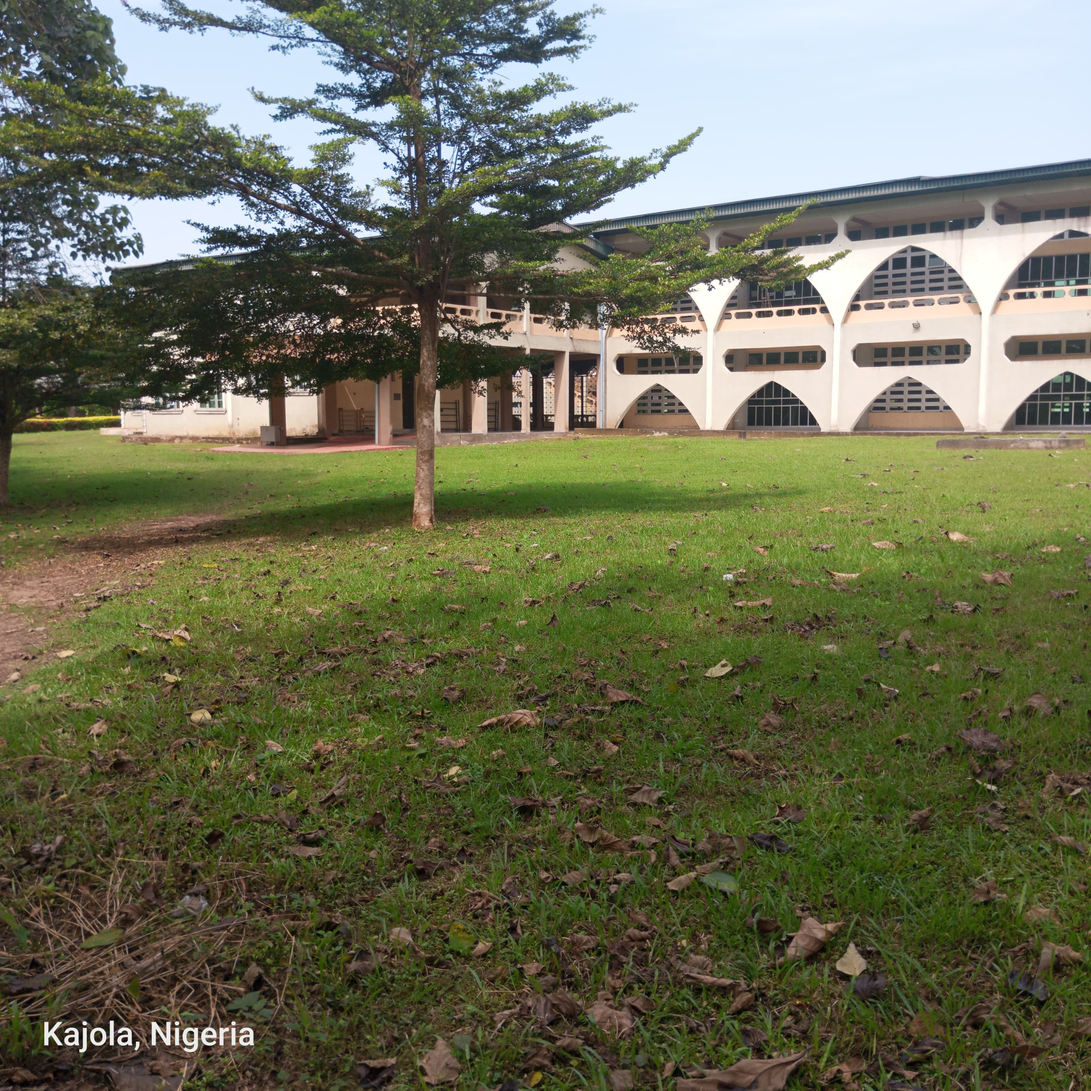
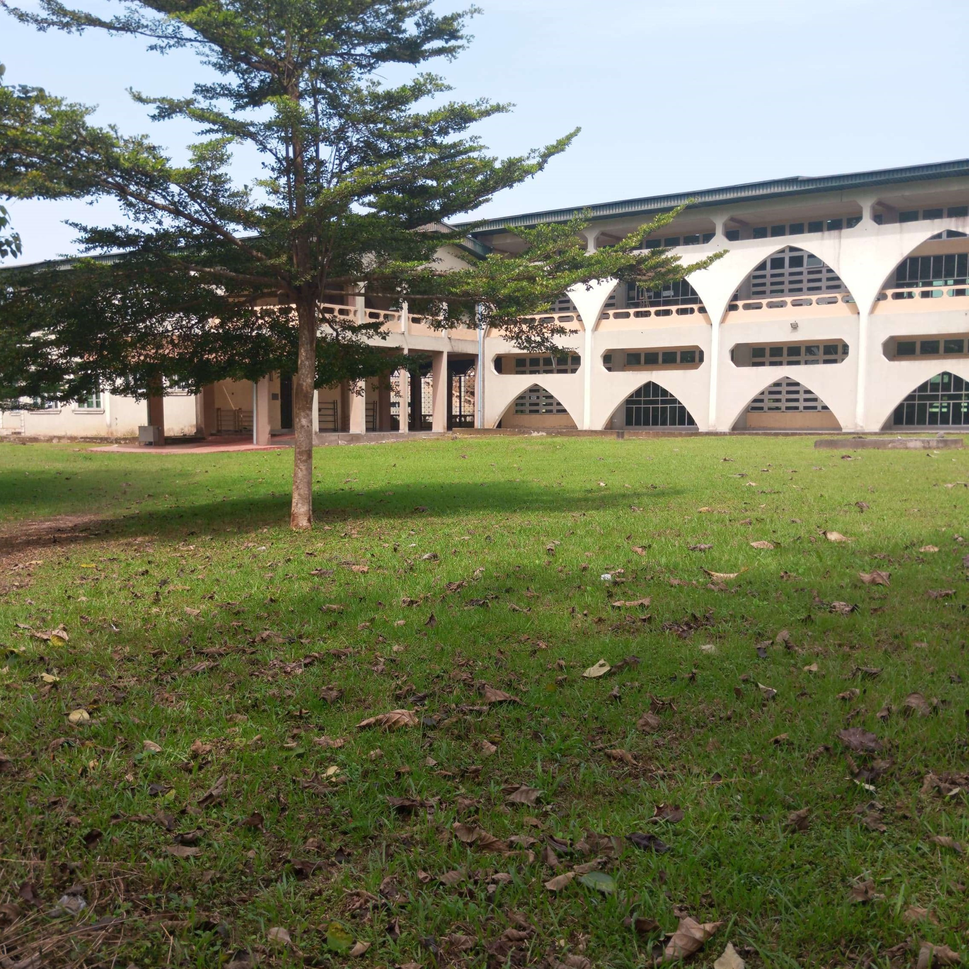
✨ feat(alumnae): Added alumnae page and form
✨ feat(our-excos): Removed dark mode specific styling from links

diff --git a/src/routes/alumnae/+page.svelte b/src/routes/alumnae/+page.svelte
@@ -1,0 +1,121 @@
+<script>
+    import PageHeader from "$lib/components/PageHeader.svelte";
+    import {MetaTags} from "svelte-meta-tags";
+</script>
+
+<!-- Meta Tags -->
+<MetaTags
+        title="Alumnae Reconnect"
+        titleTemplate="%s | MSSNOAU"
+        description="Welcome to the Muslim Students Society of Nigeria, Great Ìfẹ́ (OAU) Branch. Discover our programs, events, and resources designed to support Muslim students at Obafemi Awolowo University."
+        canonical="https://mssnoau-frontend.vercel.app/our-advisors"
+        openGraph={{
+    url: 'https://mssnoau-frontend.vercel.app/our-advisors',
+    title: 'Alumnae Reconnect | MSSNOAU',
+    description: 'Welcome to the Muslim Students Society of Nigeria, Great Ìfẹ́ (OAU) Branch. Discover our programs, events, and resources designed to support Muslim students at Obafemi Awolowo University.',
+    images: [
+      {
+        url: 'https://i.ibb.co/HqK7S8Z/our-advisors.jpg',
+        width: 1200,
+        height: 640,
+        alt: 'Website screenshot'
+      }
+    ],
+    siteName: 'MSSNOAU'
+  }}
+/>
+<!-- End Meta Tags -->
+
+<PageHeader>
+    Reconnect with MSSNOAU
+</PageHeader>
+
+<section class="py-24 bg-gray-50">
+    <div class="mx-auto max-w-7xl px-4 sm:px-6 lg:px-8">
+        <div class="flex justify-between items-center flex-col lg:flex-row md:mt-20">
+            <div class="w-full lg:w-1/2">
+                <h2 class="text-5xl text-gray-900 font-semibold leading-[4rem] mb-7 text-center lg:text-left font-secondary">
+                    Give back to <br />The Community</h2>
+                <p class="text-lg text-gray-500 mb-16 text-center lg:text-left font-tertiary md:pr-12">We would love to hear how you, as a valued alumna, believe you can contribute to the growth and success of our organization. Whether through mentorship, resources, or other forms of support, your involvement can make a meaningful impact. Please share with us how you'd like to help.</p>
+                <button class="cursor-pointer py-3 px-8 w-60 bg-primary-700 text-white text-base font-semibold transition-all duration-500 block text-center rounded-xl hover:bg-primary-700/90 mx-auto lg:mx-0">Fill the form</button>
+            </div>
+            <div class="w-full lg:w-1/2 lg:mt-0 md:mt-40 mt-16 max-lg:max-w-2xl">
+                <div class="grid grid-cols-1 min-[450px]:grid-cols-2 md:grid-cols-3 gap-8">
+                    <img src="/images/bg-1.png" alt="Team tailwind section"
+                         class="w-44 h-56 rounded-2xl object-cover md:mt-20 mx-auto min-[450px]:mr-0" />
+                    <img src="/images/bg-4.jpg" alt="Team tailwind section"
+                         class="w-44 h-56 rounded-2xl object-cover mx-auto min-[450px]:ml-0 md:mx-auto" />
+                    <img src="/images/bg-2.jpg" alt="Team tailwind section"
+                         class="w-44 h-56 rounded-2xl object-cover md:mt-20 mx-auto min-[450px]:mr-0 md:ml-0" />
+                    <img src="/images/bg-5.jpg" alt="Team tailwind section"
+                         class="w-44 h-56 rounded-2xl object-cover mx-auto min-[450px]:ml-0 md:mr-0 md:ml-auto" />
+                    <img src="/images/bg-3.png" alt="Team tailwind section"
+                         class="w-44 h-56 rounded-2xl object-cover md:-mt-20 mx-auto min-[450px]:mr-0 md:mx-auto" />
+                    <img src="/images/bg-6.jpg" alt="Team tailwind section"
+                         class="w-44 h-56 rounded-2xl object-cover mx-auto min-[450px]:ml-0 md:mr-0" />
+
+                </div>
+            </div>
+        </div>
+    </div>
+
+    <div class="mt-12 max-w-lg mx-auto">
+        <!-- Card -->
+        <div class="flex flex-col border rounded-xl p-4 sm:p-6 lg:p-8">
+            <h2 class="mb-8 text-xl font-semibold text-gray-800">
+                Alumnae Form
+            </h2>
+
+            <form>
+                <div class="grid gap-4 lg:gap-6">
+                    <!-- Grid -->
+                    <div class="grid grid-cols-1 sm:grid-cols-2 gap-4 lg:gap-6">
+                        <div>
+                            <label for="fname" class="block mb-2 text-sm text-gray-700 font-medium ">First Name</label>
+                            <input type="text" required autocomplete="given-name" name="fname" id="fname" class="py-3 px-4 block w-full border-gray-200 rounded-lg text-sm focus:border-green-600 focus:ring-green-600 disabled:opacity-50 disabled:pointer-events-none">
+                        </div>
+
+                        <div>
+                            <label for="lname" class="block mb-2 text-sm text-gray-700 font-medium ">Last Name</label>
+                            <input type="text" required autocomplete="family-name" name="lname" id="lname" class="py-3 px-4 block w-full border-gray-200 rounded-lg text-sm focus:border-green-600 focus:ring-green-600 disabled:opacity-50 disabled:pointer-events-none">
+                        </div>
+                    </div>
+                    <!-- End Grid -->
+
+                    <!-- Grid -->
+                    <div class="grid grid-cols-1 sm:grid-cols-2 gap-4 lg:gap-6">
+                        <div>
+                            <label for="email" class="block mb-2 text-sm text-gray-700 font-medium ">Email [optional]</label>
+                            <input type="email" name="email" id="email" autocomplete="email" class="py-3 px-4 block w-full border-gray-200 rounded-lg text-sm focus:border-green-600 focus:ring-green-600 disabled:opacity-50 disabled:pointer-events-none dark:bg-neutral-900 dark:border-neutral-700 dark:text-neutral-400 dark:placeholder-neutral-500 dark:focus:ring-neutral-600">
+                        </div>
+
+                        <div>
+                            <label for="phone" class="block mb-2 text-sm text-gray-700 font-medium ">Phone Number</label>
+                            <input type="tel" required autocomplete="mobile tel" name="phone" id="phone" class="py-3 px-4 block w-full border-gray-200 rounded-lg text-sm focus:border-green-600 focus:ring-green-600 disabled:opacity-50 disabled:pointer-events-none">
+                        </div>
+                    </div>
+                    <!-- End Grid -->
+
+                    <div>
+                        <label for="message" class="block mb-2 text-sm text-gray-700 font-medium ">Message</label>
+                        <textarea id="message" required name="message" rows="5" class="py-3 px-4 block w-full border-gray-200 rounded-lg text-sm focus:border-green-600 focus:ring-green-600 disabled:opacity-50 disabled:pointer-events-none"></textarea>
+                    </div>
+                </div>
+                <!-- End Grid -->
+
+                <div class="mt-6 grid">
+                    <button type="submit" class="w-full py-3 px-4 inline-flex justify-center items-center gap-x-2 text-sm font-medium rounded-lg border border-transparent bg-green-700 text-white hover:bg-green-800 focus:outline-none focus:bg-green-800 disabled:opacity-50 disabled:pointer-events-none">Submit Message</button>
+                </div>
+
+                <div class="mt-3 text-center">
+                    <p class="text-sm text-gray-500">
+                        We'll try to get back to you as soon as possible Insha'Allah.
+                    </p>
+                </div>
+            </form>
+        </div>
+        <!-- End Card -->
+    </div>
+</section>
+
+

diff --git a/src/routes/our-excos/+page.svelte b/src/routes/our-excos/+page.svelte
@@ -685,7 +685,7 @@
                                         </div>
 
                                         <div class="grow">
-                                            <h1 class="text-lg font-medium text-gray-800 dark:text-neutral-200">
+                                            <h1 class="text-lg font-medium text-gray-800">
                                                 {member.name}
                                             </h1>
                                             <p class="text-sm text-gray-600 dark:text-neutral-400">
@@ -701,7 +701,7 @@
                                         <ul class="mt-5 flex flex-col gap-y-3">
                                             <li class="flex items-center gap-x-2.5">
                                                 <Phone class="shrink-0 size-3.5"/>
-                                                <a class="text-[13px] text-gray-500 underline hover:text-gray-800 hover:decoration-2 focus:outline-none focus:decoration-2 dark:text-neutral-500 dark:hover:text-neutral-400"
+                                                <a class="text-[13px] text-gray-500 underline hover:text-gray-800 hover:decoration-2 focus:outline-none focus:decoration-2 "
                                                    href={`tel:${member.phone}`}>
                                                     {member.phone}
                                                 </a>
@@ -712,7 +712,7 @@
                                                      class="shrink-0 size-3.5 text-[#25D366]"><title>WhatsApp</title>
                                                     <path d="M17.472 14.382c-.297-.149-1.758-.867-2.03-.967-.273-.099-.471-.148-.67.15-.197.297-.767.966-.94 1.164-.173.199-.347.223-.644.075-.297-.15-1.255-.463-2.39-1.475-.883-.788-1.48-1.761-1.653-2.059-.173-.297-.018-.458.13-.606.134-.133.298-.347.446-.52.149-.174.198-.298.298-.497.099-.198.05-.371-.025-.52-.075-.149-.669-1.612-.916-2.207-.242-.579-.487-.5-.669-.51-.173-.008-.371-.01-.57-.01-.198 0-.52.074-.792.372-.272.297-1.04 1.016-1.04 2.479 0 1.462 1.065 2.875 1.213 3.074.149.198 2.096 3.2 5.077 4.487.709.306 1.262.489 1.694.625.712.227 1.36.195 1.871.118.571-.085 1.758-.719 2.006-1.413.248-.694.248-1.289.173-1.413-.074-.124-.272-.198-.57-.347m-5.421 7.403h-.004a9.87 9.87 0 01-5.031-1.378l-.361-.214-3.741.982.998-3.648-.235-.374a9.86 9.86 0 01-1.51-5.26c.001-5.45 4.436-9.884 9.888-9.884 2.64 0 5.122 1.03 6.988 2.898a9.825 9.825 0 012.893 6.994c-.003 5.45-4.437 9.884-9.885 9.884m8.413-18.297A11.815 11.815 0 0012.05 0C5.495 0 .16 5.335.157 11.892c0 2.096.547 4.142 1.588 5.945L.057 24l6.305-1.654a11.882 11.882 0 005.683 1.448h.005c6.554 0 11.89-5.335 11.893-11.893a11.821 11.821 0 00-3.48-8.413Z"/>
                                                 </svg>
-                                                <a class="text-[13px] text-gray-500 underline hover:text-gray-800 hover:decoration-2 focus:outline-none focus:decoration-2 dark:text-neutral-500 dark:hover:text-neutral-400"
+                                                <a class="text-[13px] text-gray-500 underline hover:text-gray-800 hover:decoration-2 focus:outline-none focus:decoration-2"
                                                    href={`https://wa.me/${member.phone.replace(/^0/, "").replace(/^234/, "").replace(/^\+234/, "")}`}
                                                 >
                                                     {member.phone}
